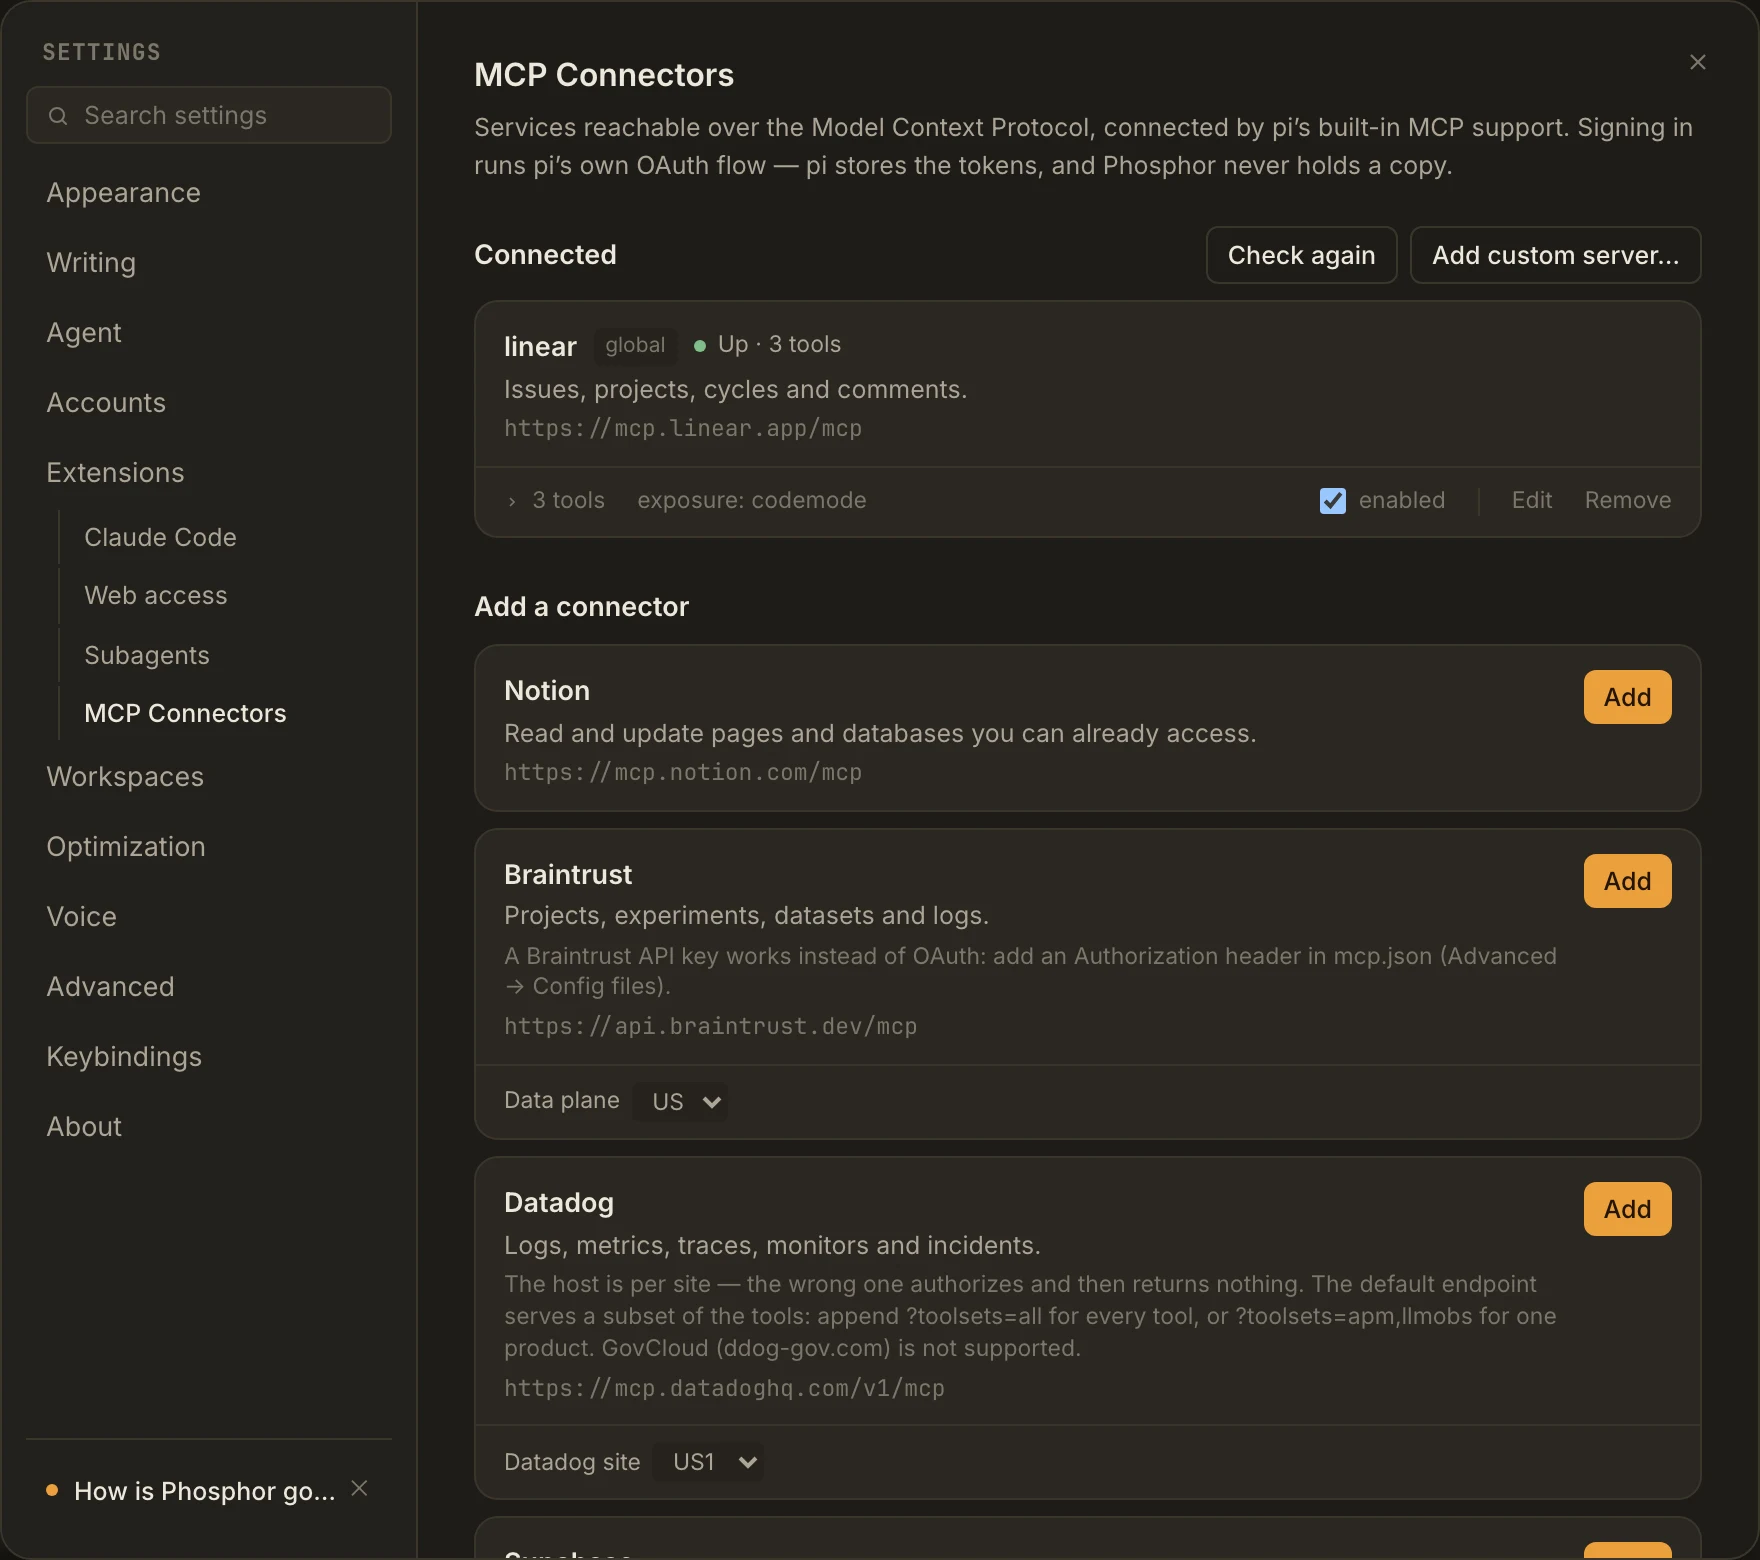
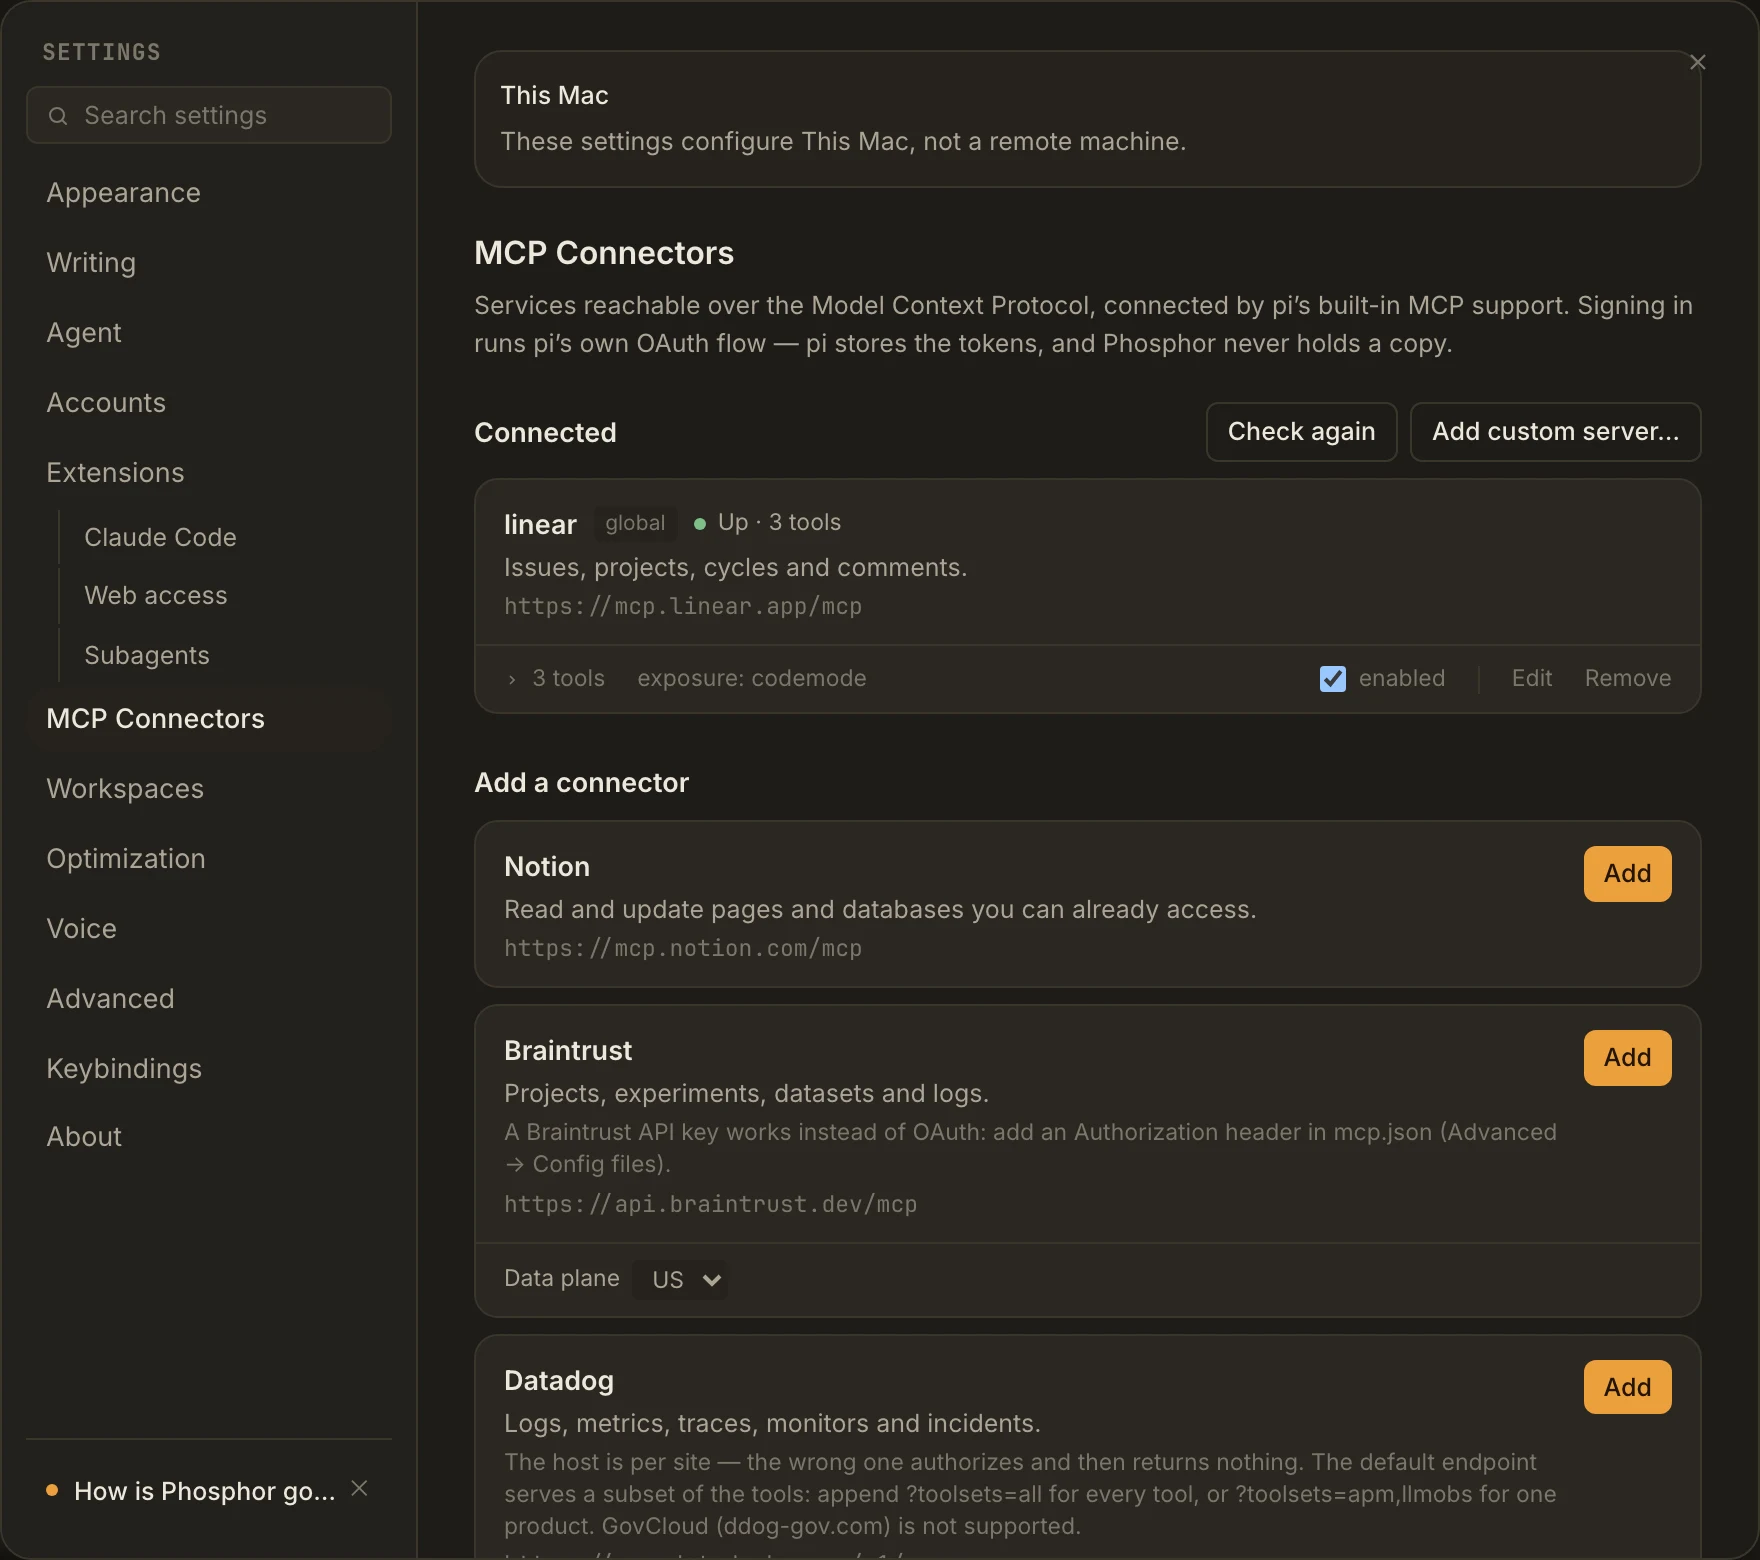
Settings: MCP Connectors is a top-level section
MCP is built into pi now, not added by a package, so the Connectors tab no
longer nests under Extensions with the package tabs. It sits right after
Extensions as its own section. Nav buttons carry data-nested so the order
is testable without matching classes.

Docs (settings.md), the site's connectors guide and both Connectors
screenshots updated.

Verified: typecheck, lint, prettier, unit 7248 passed (one Host worktree
timeout under load, passes 3/3 alone), e2e 157 passed (the terminal-paste
test failed under load and passes alone and on main).

diff --git a/apps/desktop/src/features/settings/SettingsModal.test.tsx b/apps/desktop/src/features/settings/SettingsModal.test.tsx
@@ -38,15 +38,16 @@ vi.mock('./tabs/SubagentsTab', () => ({ SubagentsTab: () => <p>Local machine con
 vi.mock('./tabs/AboutTab', () => ({ AboutTab: () => null }))
 let root: Root
 let container: HTMLDivElement
-const invoke = vi.fn(async (channel: string) =>
+const defaultInvoke = async (channel: string): Promise<unknown> =>
   channel === 'packages:list'
     ? []
     : channel === 'feedback:state'
       ? { mode: 'github', repo: 'agustinsacco/Phosphor', nudge: false }
-      : undefined,
-)
+      : undefined
+const invoke = vi.fn(defaultInvoke)
 beforeEach(() => {
   invoke.mockClear()
+  invoke.mockImplementation(defaultInvoke)
   useRemoteLanesStore.setState({ filter: 'local' })
   useSessionsStore.setState({ activeSessionId: null, live: {} })
   useMachinesStore.setState({ machines: [], view: { kind: 'list' } })
@@ -67,6 +68,24 @@ afterEach(() => {
   container.remove()
   vi.unstubAllGlobals()
 })
+it('lists MCP Connectors as its own section, after the packages nested under Extensions', async () => {
+  invoke.mockImplementation(async (channel: string) =>
+    channel === 'packages:list'
+      ? [{ spec: 'npm:pi-web-access', name: 'pi-web-access', scope: 'global', installed: true }]
+      : undefined,
+  )
+  await act(async () => root.render(<SettingsModal />))
+  const nav = [...document.querySelectorAll('nav[aria-label="Settings sections"] button')]
+  const rows = nav.map((b) => `${b.hasAttribute('data-nested') ? '↳ ' : ''}${b.textContent}`)
+  const at = rows.indexOf('Extensions')
+  expect(rows.slice(at, at + 4)).toEqual([
+    'Extensions',
+    '↳ Web access',
+    'MCP Connectors',
+    'Workspaces',
+  ])
+})
+
 it('keeps Send feedback in the Settings footer and opens the same form', async () => {
   await act(async () => root.render(<SettingsModal />))
   const footer = document.querySelector('[data-testid=settings-footer]')

diff --git a/apps/desktop/src/features/settings/SettingsModal.tsx b/apps/desktop/src/features/settings/SettingsModal.tsx
@@ -142,15 +142,11 @@ export function SettingsModal(): React.JSX.Element | null {
             aria-label="Settings sections"
             className="-mx-1 min-h-0 flex gap-0.5 overflow-x-auto px-1 md:mx-0 md:block md:flex-1 md:overflow-y-auto md:px-0"
           >
-            {TABS.filter((t) => t.id !== 'connectors').map((t) => (
+            {TABS.map((t) => (
               <Fragment key={t.id}>
                 {navButton(t.id, t.label)}
-                {t.id === 'extensions' && (
-                  <>
-                    {visibleExtensionTabs.map((et) => navButton(et.id, et.label, true))}
-                    {navButton('connectors', 'MCP Connectors', true)}
-                  </>
-                )}
+                {t.id === 'extensions' &&
+                  visibleExtensionTabs.map((et) => navButton(et.id, et.label, true))}
               </Fragment>
             ))}
           </nav>
@@ -226,6 +222,7 @@ function NavButton({
     <TooltipButton
       onClick={onClick}
       aria-current={selected ? 'page' : undefined}
+      data-nested={nested || undefined}
       className={clsx(
         'flex shrink-0 items-center gap-2 whitespace-nowrap rounded-lg px-2.5 py-1.5 text-left transition-colors md:mb-0.5',
         nested

diff --git a/docs/settings.md b/docs/settings.md
@@ -5,31 +5,31 @@ A **modal**, not a second window (`ModalOverlay` in
 scale and the app's lifecycle. Cmd/Ctrl+, opens it; Cmd/Ctrl+/ opens it on
 Keybindings.
 
-Eleven top-level tabs and five indented under Extensions. MCP Connectors is always
-present, since pi's MCP support is built in; the other four belong to packages. Subagents requires an installed
-package. The existing provider tabs also show for declared packages so their
+Twelve top-level tabs and four indented under Extensions, one per package.
+MCP Connectors is top level and always present, since MCP is built into pi
+rather than added by a package. Subagents requires an installed package. The existing provider tabs also show for declared packages so their
 health/configuration screens remain reachable during setup. The package list
 is re-read on every open, so a fresh install gets its tab without a restart,
 and a tab whose package vanished falls back to Extensions.
 
-| Tab              | What it is                                                           | Writes                                                  |
-| ---------------- | -------------------------------------------------------------------- | ------------------------------------------------------- |
-| Appearance       | Theme, UI scale, per-surface font sizes, mono font                   | Phosphor prefs (electron-store)                         |
-| Writing          | Spellcheck switch, autocomplete, learned prompts                     | Phosphor prefs; `<userData>/writing/prompts.jsonl`      |
-| Agent            | pi's agent defaults, global or per project                           | `~/.pi/agent/settings.json` or `<ws>/.pi/settings.json` |
-| Accounts         | Subscription logins pi can drive                                     | pi's provider auth                                      |
-| Extensions       | pi package management                                                | shells out to `pi install` / `remove` / `update`        |
-| ↳ Claude Code    | The `pi-claude-cli` provider: health, accounts, pi context ownership | Phosphor prefs + the package's own config               |
-| ↳ Web access     | The `pi-web-access` provider: search, fetch, PDF                     | `web-search.json`                                       |
-| ↳ Subagents      | Delegation guide, profile precedence, configuration ownership        | global Pi settings through the shared raw editor        |
-| ↳ Computer use   | Info page for `@injaneity/pi-computer-use`                           | nothing (read-only)                                     |
-| ↳ MCP Connectors | pi's built-in MCP: curated OAuth catalog + custom servers            | `~/.pi/agent/mcp.json` or `<ws>/.pi/mcp.json`           |
-| Workspaces       | Lane naming/markers, new-session branching, recents, sandboxes       | Phosphor prefs; layout reset clears localStorage        |
-| Optimization     | Headroom tool-result compression + the Advisor                       | Phosphor prefs; `headroom:*` lifecycle in main          |
-| Voice            | Dictation on/off and which local speech model                        | Phosphor prefs; model files in `<userData>/voice/`      |
-| Advanced         | pi health, raw config editors, maintenance, discovered resources     | the pi files it edits; maintenance prefs                |
-| Keybindings      | Static reference sheet                                               | nothing                                                 |
-| About            | Versions, update check, pi drift warning, font licenses              | nothing                                                 |
+| Tab            | What it is                                                           | Writes                                                  |
+| -------------- | -------------------------------------------------------------------- | ------------------------------------------------------- |
+| Appearance     | Theme, UI scale, per-surface font sizes, mono font                   | Phosphor prefs (electron-store)                         |
+| Writing        | Spellcheck switch, autocomplete, learned prompts                     | Phosphor prefs; `<userData>/writing/prompts.jsonl`      |
+| Agent          | pi's agent defaults, global or per project                           | `~/.pi/agent/settings.json` or `<ws>/.pi/settings.json` |
+| Accounts       | Subscription logins pi can drive                                     | pi's provider auth                                      |
+| Extensions     | pi package management                                                | shells out to `pi install` / `remove` / `update`        |
+| ↳ Claude Code  | The `pi-claude-cli` provider: health, accounts, pi context ownership | Phosphor prefs + the package's own config               |
+| ↳ Web access   | The `pi-web-access` provider: search, fetch, PDF                     | `web-search.json`                                       |
+| ↳ Subagents    | Delegation guide, profile precedence, configuration ownership        | global Pi settings through the shared raw editor        |
+| ↳ Computer use | Info page for `@injaneity/pi-computer-use`                           | nothing (read-only)                                     |
+| MCP Connectors | pi's built-in MCP: curated OAuth catalog + custom servers            | `~/.pi/agent/mcp.json` or `<ws>/.pi/mcp.json`           |
+| Workspaces     | Lane naming/markers, new-session branching, recents, sandboxes       | Phosphor prefs; layout reset clears localStorage        |
+| Optimization   | Headroom tool-result compression + the Advisor                       | Phosphor prefs; `headroom:*` lifecycle in main          |
+| Voice          | Dictation on/off and which local speech model                        | Phosphor prefs; model files in `<userData>/voice/`      |
+| Advanced       | pi health, raw config editors, maintenance, discovered resources     | the pi files it edits; maintenance prefs                |
+| Keybindings    | Static reference sheet                                               | nothing                                                 |
+| About          | Versions, update check, pi drift warning, font licenses              | nothing                                                 |
 
 Phosphor's prefs live in electron-store. pi's config stays in pi's files. The
 two are never mixed.
@@ -334,10 +334,10 @@ not launch work and is not proof that a particular session loaded the package.
 Read-only: what the package adds (observe windows, search UI elements, click,
 type, scroll) and the accessibility permissions it needs.
 
-### MCP Connectors
+## MCP Connectors
 
-Nested under Extensions, since a connector is configuration for pi rather
-than a top-level app concern.
+Top level, right after Extensions and its package tabs: MCP is built into pi,
+so connectors are not configuration for a package.
 
 - **Connected**: every server pi resolves from its global and project
   `mcp.json`, with its state from `pi mcp list` (**Check again**), Sign in,
